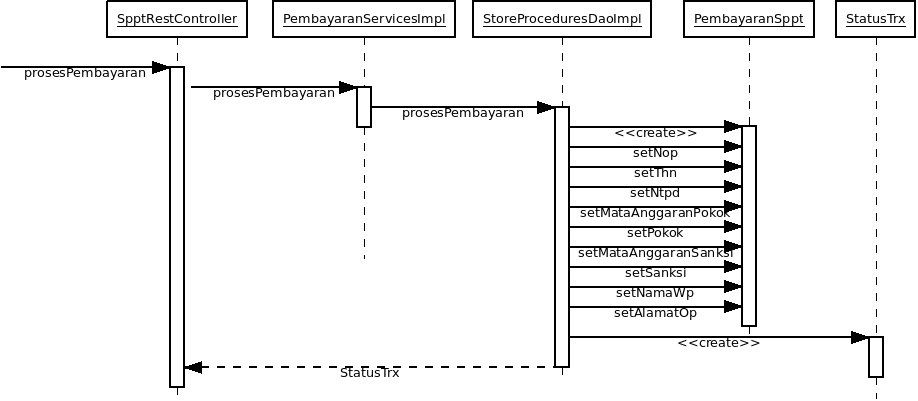
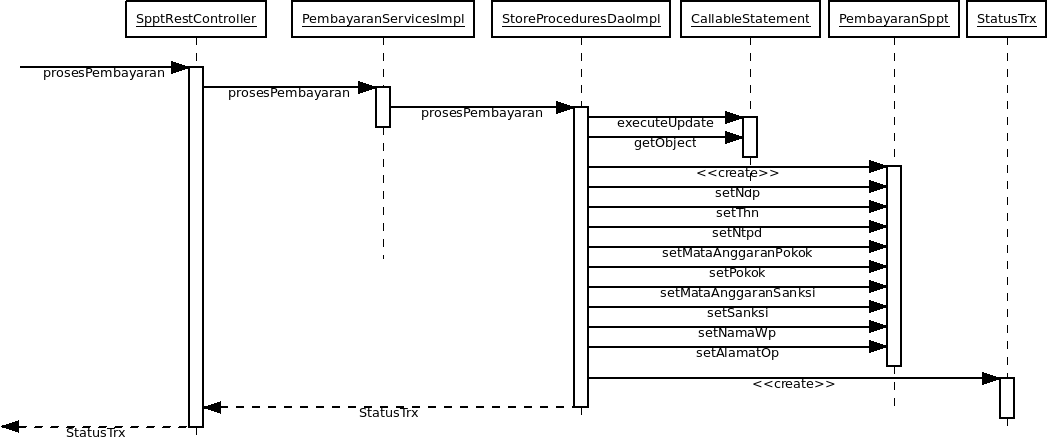
update content

Changed region(s): [[0.0, 0.0, 1.0, 1.0]]

diff --git a/04.arsitektur-sistem.tex b/04.arsitektur-sistem.tex
@@ -338,9 +338,38 @@ Tentunya \textit{client} mengetahui hal tersebut, karena \textit{server} akan me
 
 \subsection{Skenario Transaksi Pembayaran Gagal Karena Kesalahan Server}
 
-Pada skenario ini, pesan transaksi yang diminta oleh \textit{client} sampai ke \textit{server}, namun pada saat \textit{server} akan melakukan komunikasi dengan basis data terjadi kegagalan. Skenario kegagalan ini dapat dilihat pada gambar :
+Pada skenario ini, pesan transaksi yang diminta oleh \textit{client} sampai ke \textit{server}, namun pada saat \textit{server} akan melakukan komunikasi dengan basis data terjadi kegagalan. Skenario kegagalan ini dapat dilihat pada gambar \ref{fig:uml-seq-trx-db-error} :
+
+\begin{figure}[H]
+  \centering
+  \includegraphics[width=1\textwidth]{./resources/uml/uml-seq-trx-db-error}
+  \caption{Diagram \textit{Sequence} Untuk Pencatatan Transaksi Pembayaran Yang Gagal Karena Kesalahan \textit{Server}}
+  \label{fig:uml-seq-trx-db-error}
+\end{figure}
+
+Transaksi ini diawal dari \textit{request client} yang masuk ke \textit{method} prosesPembayaran milik kelas SpptRestController. Kemudian secara berurutan memanggil \textit{method} prosesPembayaran milik kelas PembayaranServicesImpl dan \textit{method} prosesPembayaran milik kelas StoreProceduresDaoImpl.
+
+Pada \textit{method} prosesPembayaran milik kelas StoreProceduresDaoImpl, saat melakukan pemanggilan \textit{store procedures} dengan \textit{method} executeUpdate milik kelas CallableStatement, terjadi kesalahan komunikasi antara \textit{server} aplikasi dengan \textit{server} basis data, sehingga proses terlempar ke \textit{exception} dan dilakukan pembuatan instan kelas StatusTrx oleh kelas StoreProceduresDaoImpl, dan dikembalikan ke kelas SpptRestController dalam bentuk kelas StatusTrx dan disampaikan ke \textit{client}.
 
 \subsection{Skenario Transaksi Pembayaran Sukses}
+
+Skenario ini menggambarkan alur transaksi pencatatan pembayaran yang sukses dilakukan dan informasinya disampaikan ke \textit{client}. Diagram \textit{sequence} untuk menggambarkan skenario ini seperti terlihat pada gambar \ref{fig:uml-seq-trx} :
+
+\begin{figure}[H]
+  \centering
+  \includegraphics[width=1\textwidth]{./resources/uml/uml-seq-trx}
+  \caption{Diagram \textit{Sequence} Pencatatan Transaksi Pembayaran Yang Sukses}
+  \label{fig:uml-seq-trx}
+\end{figure}
+
+Skenario ini diawali dari pemanggilan \textit{method} prosesPembayaran milik kelas SpptRestController, karena \textit{method} ini lah yang menjadi tempat masuk seluruh proses dari fitur yang ditawarkan oleh \textit{server web services} ini.
+
+Secara berurut, \textit{method} prosesPembayaran milik kelas SpptRestController, akan memanggil \textit{method} prosesPembayaran milik kelas PembayaranServicesImpl, yang didalam \textit{method} ini akan memanggil \textit{method} prosesPembayaran milik kelas StoreProceduresDaoImpl.
+
+Di dalam \textit{method} prosesPembayaran milik kelas StoreProceduresDaoImpl, proses pemanggilan \textit{method} executeUpdate milik kelas CallableStatement dilakukan untuk mengeksekusi \textit{store procedures} pada basis data, kemudian mengambil hasil nilainya dengan memanggil \textit{method} getObject.
+
+Selanjutnya, dari nilai-nilai yang dikembalikan oleh \textit{store procedures} basis data, nilai-nilai tersebut ditampung pada kelas PembayaranSppt, yang kemudian dimasukkan ke dalam kelas StatusTrx untuk dikembalikan ke kelas SpptRestController. Kemudian kelas SpptRestController mengirimkan kelas StatusTrx sebagai respon dari \textit{request} yang dikirimkan oleh \textit{client}.
+
 \subsection{Skenario \textit{Reversal} Gagal Karena Data Yang Diminta Tidak Ada}
 \subsection{Skenario \textit{Reversal} Gagal Karena Ada Data Pembayaran Yang Tercatat Ganda}
 \subsection{Skenario \textit{Reversal} Gagal Karena Kesalahan Server}
@@ -348,26 +377,7 @@ Pada skenario ini, pesan transaksi yang diminta oleh \textit{client} sampai ke \
 
 \begin{enumerate}
   
-  \item Bagian Transaksi Pembayaran
-  
-  Pada bagian-bagian yang menangani transaksi pembayaran, objek-objek yang berhubungan akan terlihat berkomunikasi pada diagram \textit{sequence} seperti pada gambar \ref{fig:uml-seq-trx} :
-  
-  \begin{figure}[H]
-    \centering
-    \includegraphics[width=1\textwidth]{./resources/uml/uml-seq-trx}
-    \caption{Diagram \textit{Sequence} Untuk Proses Pencatatan Transaksi Pembayaran}
-    \label{fig:uml-seq-trx}
-  \end{figure}
-  
-  Seperti proses pada \textit{request inquiry}, pada proses pencatatan pembayaran, \textit{request} akan diterima dan disaring pada kelas SpptRestController. Karena \textit{request}-nya adalah melakukan pencatatan pembayaran, maka yang dipanggil adalah \textit{method} prosesPembayaran milik kelas SpptRestController.
-  
-  Dari \textit{method} prosesPembayaran milik kelas SpptRestController, didalamnya memanggil \textit{method} dengan nama yang sama, yaitu \textit{method} prosesPembayaran tetapi milik kelas PembayaranServicesImpl. 
-  
-  Dari \textit{method} prosesPembayaran milik kelas PembayaranServicesImpl pada lapisan \textit{services}, kemudian memanggil \textit{method} dengan nama yang sama pula, yaitu \textit{method} prosesPembayaran, tetapi kali ini milik kelas StoreProceduresDaoImpl sebagai lapisan penghubung antara aplikasi dengan basis data.
-  
-  Pada \textit{method} prosesPembayaran milik kelas StoreProceduresDaoImpl ini, proses didalamnya adalah memanggil \textit{store procedure} milik basis data Oracle, yang kemudian, hasil pencatatan akan ditampung dalam kelas PembayaranSppt.
-  
-  \textit{Method} prosesPembayaran milik kelas StoreProceduresDaoImpl akhirnya akan membungkus kelas PembayaranSppt yang sudah menampung beberapa parameter pencatatan pembayaran di dalam kelas StatusTrx, dan mengembalikan kelas StatusTrx ke kelas SpptRestController untuk dijadikan respon terhadap \textit{request} yang telah diterima dari \textit{client}.
+ 
   
   \item Bagian \textit{Reversal}
   
